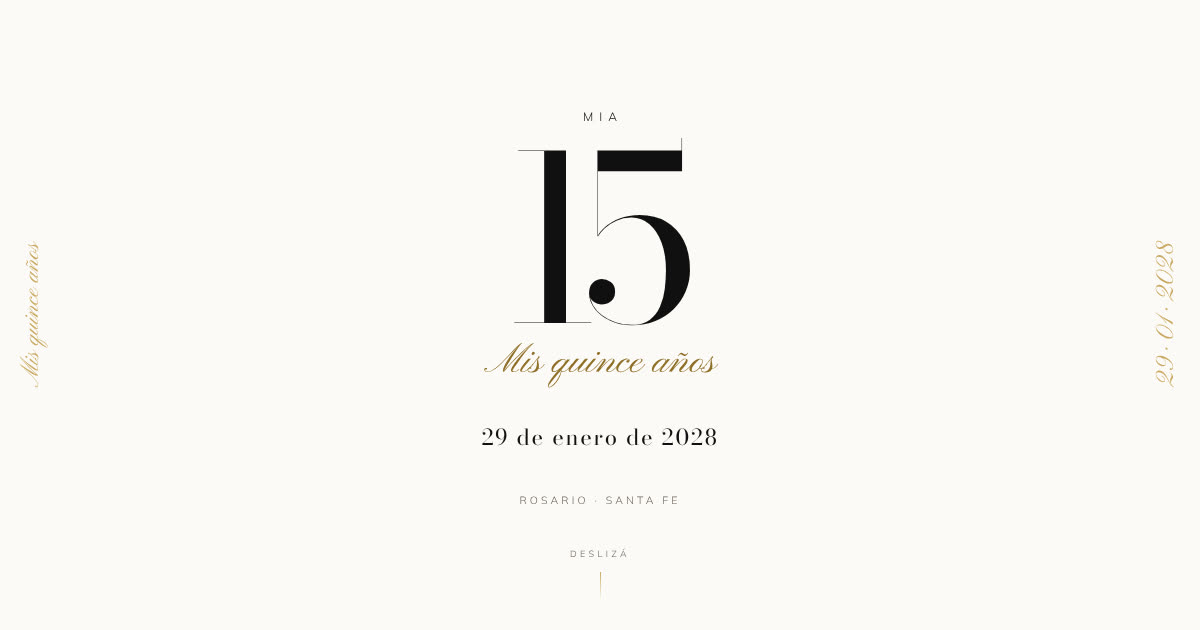
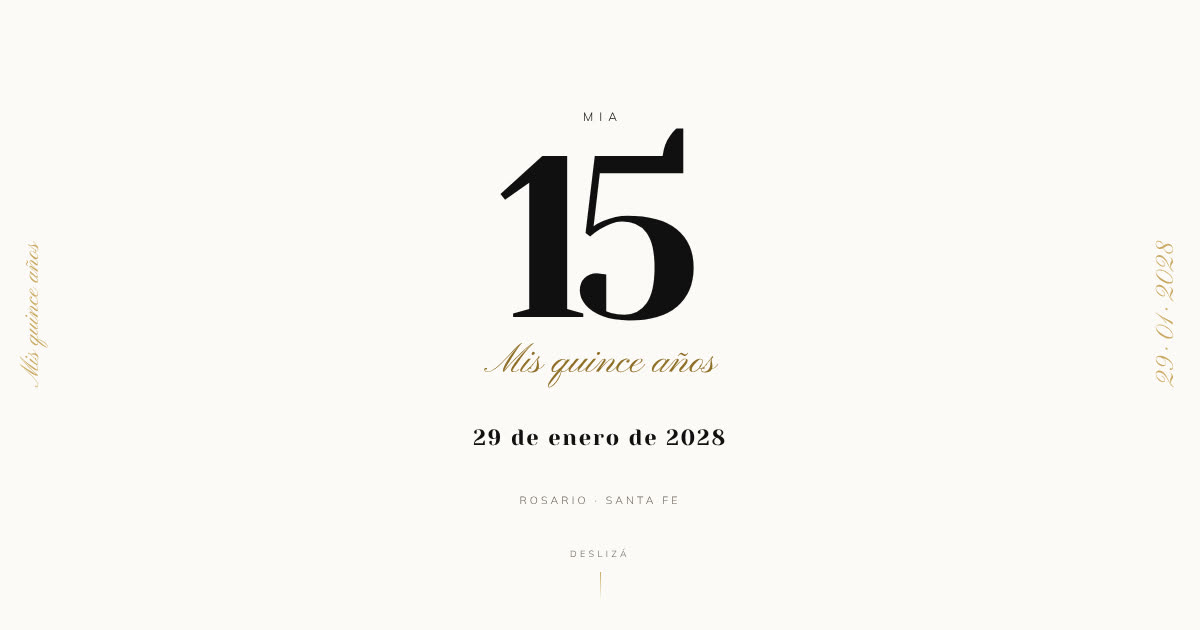
mia15 v5: bandas blancas y negras con el borde rasgado, y Yeseva One
Segunda referencia que mandó el dueño (Miron & Diana): la página
alterna bandas blancas y negras y entre una y otra el borde está
RASGADO, como papel cortado a mano. Eso usa el blanco y el negro de
Mia como ESTRUCTURA y no como detalle, y le da el ritmo que le
faltaba: cada sección entra como una hoja nueva.

Se combina con lo de la referencia anterior en vez de reemplazarlo:
las cifras gigantes y la línea vertical se quedan, y los títulos
pasan a ser capitular espaciada grande con la cursiva de bajada
abajo — que es tener las dos cosas que le gustaron, juntas.

Tipografía: Yeseva One. Se eligió mostrándola, no describiéndola:
tres veces la cambié por descripción y tres veces no era, así que
monté la misma portada con siete y mandé las siete capturas.

Los bordes rasgados se ponen SOLOS y solo donde cambia el color.
Escritos a mano, el día que el regalo se esconda —se esconde si no
hay alias— quedarían dos bandas del mismo color pegadas con un
rasgado en el medio. Los caminos SVG se generan con la fecha de la
fiesta de semilla, así salen iguales en cada armado.

Dos que no tiraban ningún error:

- Los días en tres dígitos no entraban en su casilla y pintaban
  ENCIMA del dos puntos: "469" y "04" se leían como 46904. Una
  cuenta regresiva ilegible. Y no lo agarraba nada — las cajas NO se
  superponen, lo comprobé con el bug puesto y daba verde; lo que se
  desborda es la tinta. Ahora `invitacion_mirar` lo mide con
[…]

Changed region(s): [[0.4008, 0.2111, 0.5858, 0.5127], [0.4008, 0.6635, 0.6167, 0.7238]]

diff --git a/mia15/index.html b/mia15/index.html
@@ -12,8 +12,8 @@
 <meta property="og:image" content="og.jpg">
 <link rel="preconnect" href="https://fonts.googleapis.com">
 <link rel="preconnect" href="https://fonts.gstatic.com" crossorigin>
-<link href="https://fonts.googleapis.com/css2?family=Bodoni+Moda:opsz,wght@6..96,400;6..96,500&family=Pinyon+Script&family=Mulish:wght@300;400;500&display=swap" rel="stylesheet">
-<noscript><link href="https://fonts.googleapis.com/css2?family=Bodoni+Moda:opsz,wght@6..96,400;6..96,500&family=Pinyon+Script&family=Mulish:wght@300;400;500&display=swap" rel="stylesheet"></noscript>
+<link href="https://fonts.googleapis.com/css2?family=Yeseva+One&family=Pinyon+Script&family=Mulish:wght@300;400;500&display=swap" rel="stylesheet">
+<noscript><link href="https://fonts.googleapis.com/css2?family=Yeseva+One&family=Pinyon+Script&family=Mulish:wght@300;400;500&display=swap" rel="stylesheet"></noscript>
 <style>
 /* ══════════════════════════════════════════════════════════════
    MIA · quince años — 29 de enero de 2028
@@ -57,7 +57,15 @@
   --gris:#6B635A;         /* 5,7:1 sobre el papel */
   --oro:#8F6E26;          /* 4,6:1 sobre el papel — el oro que se LEE */
   --oro-luz:#C9A961;      /* filetes y dibujos, nunca una letra */
-  --display:'Bodoni Moda',Didot,Georgia,serif;
+  /* La tinta de las bandas NEGRAS. Van en :root y no sueltas por
+     ahí: una var que no existe NO da error — la declaración se
+     descarta y el texto hereda lo de arriba. Acá eso fue negro
+     sobre negro, 1,00:1, en trece textos, y en el navegador se ve
+     una banda negra vacía que parece un error de carga. */
+  --crema:#F6F2EA;        /* 17:1 sobre el negro */
+  --crema2:#B9B0A2;       /* 8,8:1 sobre el negro */
+  --oro-neg:#D8B877;      /* 10:1 sobre el negro */
+  --display:'Yeseva One',Georgia,serif;
   --mano:'Pinyon Script',cursive;
   --texto:'Mulish',system-ui,-apple-system,'Segoe UI',sans-serif;
   --e:cubic-bezier(.22,.75,.3,1);
@@ -85,15 +93,58 @@ a{color:inherit}
 h1,h2,h3{margin:0;font-weight:400;line-height:1.1}
 p{margin:0 0 1em}
 
-/* El título manuscrito: lo que convierte cada sección en un momento. */
+/* EL TÍTULO: capitular espaciada, grande, como la referencia. Y
+   abajo la misma idea dicha en cursiva, chiquita — las dos cosas
+   que tienen las dos referencias que eligió, juntas. */
+.tit{
+  font-family:var(--display);font-weight:400;
+  font-size:clamp(23px,6.4vw,32px);letter-spacing:.16em;
+  text-transform:uppercase;line-height:1.2;color:var(--tinta);
+  margin:0;text-indent:.16em;
+}
 .mano{
   font-family:var(--mano);font-weight:400;
-  font-size:clamp(38px,11vw,56px);line-height:1.05;
-  color:var(--oro);margin:0 0 6px;
+  font-size:clamp(23px,6.4vw,30px);line-height:1.2;
+  color:var(--oro);margin:6px 0 0;
 }
-/* El renglón chiquito de arriba, en versalitas separadas. */
-.ante{font-size:10px;letter-spacing:.42em;text-transform:uppercase;color:var(--gris);margin:0 0 20px}
+.ante{font-size:10px;letter-spacing:.42em;text-transform:uppercase;color:var(--gris);margin:0 0 16px}
 .cuerpo{color:var(--gris);font-size:15.5px;max-width:34ch;margin-left:auto;margin-right:auto}
+
+/* ══════════ LAS BANDAS ══════════
+   De la segunda referencia que eligió el dueño: la página alterna
+   bandas blancas y negras, y entre una y otra el borde está
+   RASGADO, como papel cortado a mano. Eso usa el blanco y el negro
+   de Mia como ESTRUCTURA y no como detalle, y es lo que le da
+   ritmo: cada sección entra como una hoja nueva.
+
+   Cada banda oscura trae su propia tinta, toda. Heredar el gris del
+   papel sobre un fondo negro da 1,4:1 — el texto deja de estar, y
+   en el monitor no se nota porque uno mira la banda de arriba. */
+.oscura{background:var(--tinta);color:var(--crema)}
+.oscura h1,.oscura h2,.oscura h3{color:var(--crema)}
+.oscura p,.oscura .cuerpo{color:var(--crema2)}
+.oscura .ante{color:var(--crema2)}
+.oscura .mano{color:var(--oro-neg)}
+.oscura .filete i{background:rgba(216,184,119,.5)}
+.oscura .filete b{background:var(--oro-neg)}
+.oscura .salon{color:var(--crema)}
+.oscura .calle{color:var(--crema2)}
+.oscura .hora{color:var(--oro-neg)}
+.oscura .alias-big{color:var(--crema)}
+.oscura .vert{color:rgba(216,184,119,.6)}
+.oscura .cierre-n{color:var(--crema)}
+.oscura .firma{color:var(--crema2)}
+.oscura .firma a{color:var(--oro-neg)}
+.oscura .btn{border-color:var(--crema);background-color:var(--crema);color:var(--tinta)}
+@media (hover:hover){ .oscura .btn:hover{background-color:transparent;color:var(--crema)} }
+
+/* El borde rasgado. Va arriba de la sección y pintado del color de
+   la que viene ARRIBA, así parece que esa hoja se rasgó encima de
+   esta. Es decoración pura: no ataja el dedo y está escondida del
+   lector de pantalla. */
+.rasgo{position:absolute;top:-1px;left:0;width:100%;height:30px;display:block;
+  pointer-events:none;z-index:3}
+@media (min-width:700px){ .rasgo{height:42px} }
 
 /* ── el armazón ── */
 .seccion{padding:92px 26px;position:relative;overflow:hidden}
@@ -204,12 +255,21 @@ p{margin:0 0 1em}
 /* ══════════ la cuenta regresiva ══════════
    En una sola línea, cifras finas con dos puntos, como la
    referencia. Las etiquetas van abajo y chiquitas. */
-.reloj{display:flex;align-items:flex-start;justify-content:center;gap:clamp(6px,2.4vw,14px);margin:14px 0 0}
-.reloj div{text-align:center;min-width:clamp(44px,15vw,74px)}
+/* Los dos puntos van con flex:none y las cifras sin min-width.
+   Al revés —que es como estaba— los números no se podían encoger y
+   el que se encogía era el `:`, hasta desaparecer: los días y las
+   horas quedaban pegados y "469" y "04" se leían como 46904. Una
+   cuenta regresiva ilegible, y sin un solo error. */
+.reloj{display:flex;align-items:flex-start;justify-content:center;gap:clamp(4px,1.8vw,12px);margin:18px 0 0}
+.reloj div{text-align:center;min-width:0;flex:0 1 auto}
 .reloj b{display:block;font-family:var(--display);font-weight:400;
-  font-size:clamp(38px,13vw,62px);line-height:1;color:var(--tinta);font-variant-numeric:tabular-nums}
-.reloj span{display:block;margin-top:10px;font-size:8.5px;letter-spacing:.2em;text-transform:uppercase;color:var(--gris)}
-.reloj .dp{font-family:var(--display);font-size:clamp(28px,9vw,44px);color:var(--oro-luz);line-height:1.1;align-self:flex-start}
+  font-size:clamp(27px,8.6vw,50px);line-height:1;color:var(--tinta);
+  font-variant-numeric:tabular-nums;white-space:nowrap}
+.reloj span{display:block;margin-top:12px;font-size:8px;letter-spacing:.18em;text-transform:uppercase;color:var(--gris)}
+.reloj .dp{flex:none;font-family:var(--display);font-size:clamp(20px,6vw,34px);
+  color:var(--oro-luz);line-height:1.35;align-self:flex-start}
+.oscura .reloj b{color:var(--crema)}
+.oscura .reloj span{color:var(--crema2)}
 
 /* ── el calendario ── */
 .calen{margin:52px auto 0;max-width:320px}
@@ -243,7 +303,7 @@ p{margin:0 0 1em}
 .btn:active{transform:scale(.98)}
 
 /* ══════════ el regalo ══════════ */
-#regalo{background:var(--papel2)}
+/* sin fondo propio: el color se lo da la banda (.oscura) */
 .alias-big{font-family:var(--display);font-size:clamp(20px,5.4vw,26px);color:var(--tinta);margin:18px 0 2px;letter-spacing:.02em}
 
 /* ══════════ la confirmación ══════════ */
@@ -342,10 +402,10 @@ p{margin:0 0 1em}
 </header>
 
 <!-- ══════════ te invito ══════════ -->
-<section class="seccion centro" id="frase">
+<section class="seccion centro oscura" id="frase">
   <div class="caja">
-    <p class="ante ap">29 de enero de 2028</p>
-    <h2 class="mano ap">Te invito</h2>
+    <h2 class="tit ap">Te invito</h2>
+    <p class="mano ap">a mis quince</p>
     <p class="cuerpo ap">a compartir conmigo una noche que vengo esperando
     hace mucho. Me encantaría que estés.</p>
     <div class="filete ap"><i></i><b></b><i></i></div>
@@ -361,8 +421,8 @@ p{margin:0 0 1em}
 <section class="seccion centro" id="cuenta">
   <span class="vert" aria-hidden="true">Ya falta poco</span>
   <div class="caja">
-    <p class="ante ap">Falta</p>
-    <h2 class="mano ap">Cuánto falta</h2>
+    <h2 class="tit ap">Cuánto falta</h2>
+    <p class="mano ap">ya falta poco</p>
     <div class="reloj ap">
       <div><b id="cD">00</b><span>Días</span></div><span class="dp">:</span>
       <div><b id="cH">00</b><span>Horas</span></div><span class="dp">:</span>
@@ -374,11 +434,11 @@ p{margin:0 0 1em}
 </section>
 
 <!-- ══════════ dónde ══════════ -->
-<section class="seccion centro" id="donde">
+<section class="seccion centro oscura" id="donde">
   <span class="vert der" aria-hidden="true">Te espero</span>
   <div class="caja">
-    <p class="ante ap">Dónde</p>
-    <h2 class="mano ap">El lugar</h2>
+    <h2 class="tit ap">El lugar</h2>
+    <p class="mano ap">dónde nos vemos</p>
     <p class="salon ap" id="lugar">La Mansión del Rey</p>
     <p class="calle ap" id="calle">Vera Mujica 68 · Rosario</p>
     <p class="hora ap" id="hora">Sábado 29 de enero</p>
@@ -389,18 +449,18 @@ p{margin:0 0 1em}
 <!-- ══════════ dress code ══════════ -->
 <section class="seccion centro" id="dress">
   <div class="caja">
-    <p class="ante ap">Dress code</p>
-    <h2 class="mano ap">Dress code</h2>
+    <h2 class="tit ap">Dress code</h2>
+    <p class="mano ap">cómo venir</p>
     <p class="cuerpo ap" style="font-family:var(--display);font-size:clamp(19px,5.2vw,24px);color:var(--tinta);margin-bottom:14px">Elegante o formal</p>
     <p class="cuerpo ap" id="dressTexto"></p>
   </div>
 </section>
 
 <!-- ══════════ el regalo · solo si hay alias ══════════ -->
-<section class="seccion centro" id="regalo" hidden>
+<section class="seccion centro oscura" id="regalo" hidden>
   <div class="caja">
-    <p class="ante">Regalo</p>
-    <h2 class="mano">Tu regalo</h2>
+    <h2 class="tit">Regalo</h2>
+    <p class="mano">si querés</p>
     <p class="cuerpo" id="regaloTexto"></p>
     <p class="alias-big" id="alias"></p>
     <p style="font-size:13px;color:var(--gris);margin:0" id="titular"></p>
@@ -411,8 +471,8 @@ p{margin:0 0 1em}
 <!-- ══════════ la confirmación ══════════ -->
 <section class="seccion" id="confirmar">
   <div class="caja">
-    <p class="ante centro ap">Confirmación</p>
-    <h2 class="mano centro ap">¿Venís?</h2>
+    <h2 class="tit centro ap">¿Venís?</h2>
+    <p class="mano centro ap">avisame</p>
     <p class="cuerpo centro ap" id="hasta"></p>
 
     <form id="rsvp" class="ap" novalidate style="margin-top:26px">
@@ -466,7 +526,7 @@ p{margin:0 0 1em}
 </section>
 
 <!-- ══════════ el cierre ══════════ -->
-<section class="seccion centro" id="cierre">
+<section class="seccion centro oscura" id="cierre">
   <div class="caja">
     <div class="filete ap"><i></i><b></b><i></i></div>
     <p class="cierre-n ap">Mia</p>
@@ -601,6 +661,37 @@ document.documentElement.classList.add('js');
     $('#hora').textContent = nom.charAt(0).toUpperCase() + nom.slice(1) +
       ' ' + (+m[3]) + ' de ' + MESES[+m[2]-1] +
       (CONFIG.mostrarHora ? ' · ' + m[4] + ':' + m[5] : '');
+  }
+})();
+
+/* ══════════ los bordes rasgados ══════════
+   Se ponen SOLOS, y solo donde el color cambia. Escritos a mano en
+   el HTML, el día que una sección se esconda —el regalo se esconde
+   si no hay alias— quedarían dos bandas del mismo color pegadas con
+   un rasgado en el medio, que es justo lo que no tiene que pasar. */
+(function(){
+  const BORDES = [
+    'M0,0 L0.0,28.6 L26.1,35.3 L52.2,33.7 L78.3,27.8 L104.3,38.1 L130.4,24.6 L156.5,16.3 L182.6,22.0 L208.7,20.2 L234.8,17.5 L260.9,12.7 L287.0,21.3 L313.0,26.9 L339.1,30.2 L365.2,33.0 L391.3,22.1 L417.4,27.0 L443.5,30.3 L469.6,17.5 L495.7,11.7 L521.7,19.6 L547.8,14.3 L573.9,10.3 L600.0,29.7 L626.1,30.0 L652.2,27.3 L678.3,25.7 L704.3,37.3 L730.4,28.9 L756.5,14.7 L782.6,19.5 L808.7,14.0 L834.8,12.3 L860.9,21.4 L887.0,24.6 L913.0,20.2 L939.1,28.6 L965.2,34.5 L991.3,24.6 L1017.4,26.8 L1043.5,23.7 L1069.6,21.3 L1095.7,13.6 L1121.7,15.5 L1147.8,23.0 L1173.9,19.0 L1200.0,18.1 L1200,0 Z',
+    'M0,0 L0.0,34.8 L26.1,33.6 L52.2,19.7 L78.3,35.6 L104.3,30.5 L130.4,22.8 L156.5,17.5 L182.6,17.2 L208.7,11.2 L234.8,23.4 L260.9,24.4 L287.0,20.2 L313.0,27.4 L339.1,40.3 L365.2,35.8 L391.3,22.2 L417.4,25.3 L443.5,25.3 L469.6,11.4 L495.7,13.0 L521.7,26.6 L547.8,24.0 L573.9,28.7 L600.0,26.7 L626.1,30.3 L652.2,18.5 L678.3,24.1 L704.3,22.6 L730.4,11.0 L756.5,23.7 L782.6,13.7 L808.7,18.8 L834.8,9.9 L860.9,33.9 L887.0,21.4 L913.0,30.5 L939.1,39.3 L965.2,28.8 L991.3,16.0 L1017.4,27.3 L1043.5,14.3 L1069.6,13.4 L1095.7,21.4 L1121.7,28.2 L1147.8,17.2 L1173.9,18.0 L1200.0,36.6 L1200,0 Z',
+    'M0,0 L0.0,29.4 L26.1,29.2 L52.2,26.6 L78.3,26.1 L104.3,26.8 L130.4,25.9 L156.5,17.9 L182.6,25.4 L208.7,7.9 L234.8,7.0 L260.9,18.7 L287.0,18.9 L313.0,21.7 L339.1,25.5 L365.2,27.5 L391.3,29.3 L417.4,24.5 L443.5,27.2 L469.6,13.3 L495.7,13.1 L521.7,13.9 L547.8,23.8 L573.9,21.3 L600.0,31.0 L626.1,36.1 L652.2,19.4 L678.3,22.5 L704.3,29.9 L730.4,12.4 L756.5,13.3 L782.6,14.5 L808.7,9.9 L834.8,21.2 L860.9,21.7 L887.0,29.6 L913.0,23.3 L939.1,37.3 L965.2,36.8 L991.3,27.8 L1017.4,28.0 L1043.5,30.3 L1069.6,14.9 L1095.7,16.8 L1121.7,17.1 L1147.8,17.6 L1173.9,25.2 L1200.0,30.3 L1200,0 Z'
+  ];
+  const secs = $$('section.seccion, header#portada').filter(n => !n.hidden);
+  let i = 0;
+  for (let k = 1; k < secs.length; k++){
+    const antes = secs[k-1].classList.contains('oscura');
+    const esta  = secs[k].classList.contains('oscura');
+    if (antes === esta) continue;           /* mismo color: no hay nada que rasgar */
+    const color = antes ? 'var(--tinta)' : 'var(--papel)';
+    const svg = document.createElementNS('http://www.w3.org/2000/svg','svg');
+    svg.setAttribute('class','rasgo');
+    svg.setAttribute('viewBox','0 0 1200 44');
+    svg.setAttribute('preserveAspectRatio','none');
+    svg.setAttribute('aria-hidden','true');
+    const path = document.createElementNS('http://www.w3.org/2000/svg','path');
+    path.setAttribute('d', BORDES[i++ % BORDES.length]);
+    path.setAttribute('fill', color);
+    svg.appendChild(path);
+    secs[k].insertBefore(svg, secs[k].firstChild);
   }
 })();
 

diff --git a/pruebas/invitacion_mirar.js b/pruebas/invitacion_mirar.js
@@ -172,6 +172,34 @@ const titulo = t => console.log('\n─── ' + t + ' ───');
     es(/^\d+$/.test(dias) && +dias > 0, 'y cuenta días de verdad (' + dias + ')');
   }
 
+  /* NINGÚN TEXTO SE SALE DE SU CAJA.
+     Pasó con la cuenta regresiva: los días en tres dígitos no
+     entraban en su casilla y las cifras pintaban ENCIMA del dos
+     puntos de al lado — "469" y "04" se leían como 46904.
+     Y no lo agarraba nada: las cajas no se superponen (eso lo
+     comprobé y daba verde con el bug puesto), nada se sale de la
+     pantalla, y el contraste de cada pieza es perfecto. Lo que se
+     desborda es la TINTA, no la caja, y eso se mide con
+     scrollWidth contra clientWidth. */
+  const derramados = await pag.evaluate(() => {
+    const malos = [];
+    for (const n of document.querySelectorAll('body *')){
+      const propio = [...n.childNodes].some(c => c.nodeType === 3 && c.textContent.trim());
+      if (!propio) continue;
+      const cs = getComputedStyle(n);
+      if (cs.display === 'none' || cs.visibility === 'hidden') continue;
+      if (cs.overflowX !== 'visible') continue;        /* recortar a propósito no es derramar */
+      if (cs.writingMode !== 'horizontal-tb') continue; /* el renglón vertical se mide al revés */
+      if (n.scrollWidth > n.clientWidth + 1)
+        malos.push('"' + n.textContent.trim().slice(0,14) + '" ' +
+                   n.scrollWidth + ' en ' + n.clientWidth);
+    }
+    return malos;
+  });
+  es(derramados.length === 0, derramados.length
+    ? 'texto que se sale de su caja: ' + derramados.slice(0,3).join(' · ')
+    : 'ningún texto se sale de su caja');
+
   const cal = await pag.locator('#calendario .elDia').count();
   if (await pag.locator('#calendario').count())
     es(cal === 1, 'el calendario marca un solo día (marcó ' + cal + ')');

diff --git a/CLAUDE.md b/CLAUDE.md
@@ -2405,6 +2405,101 @@ Cuatro cosas que no son adorno:
   ficha no se deriva del alto —no es un carrusel, se scrollea— así que va
   `width:100%;max-width:252px` con `auto-fit,minmax(230px,1fr)`.
 
+### `mia15/`: la primera invitación de un cliente de verdad
+
+29 de enero de 2028, La Mansión del Rey (Vera Mujica 68, Rosario).
+Lo que mandó la cumpleañera fue corto: **blanco, dorado y negro**,
+*"elegante o formal"*, que se marque si asisten y que tenga cuenta
+regresiva.
+
+**Se armó SIN publicar**, a pedido del dueño: vive en la rama de
+trabajo hasta que el cliente la apruebe. Cloudflare publica `main`,
+así que mientras no se mergee no existe en el sitio. Y el
+`CONFIG.endpoint` va vacío a propósito: la confirmación se ve y se
+completa entera y **dice con todas las letras que no se mandó a
+ningún lado**, así la tarjeta se revisa antes de que exista la
+planilla.
+
+**Hubo cuatro versiones y las tres primeras se tiraron.** Vale
+anotar por qué, porque es la misma lección tres veces:
+
+1. Negra con oro. *"Parece hecha a lo Click Eterno y no al pedido
+   de la quinceañera"*, y tenía razón: **esa es NUESTRA paleta** —la
+   del muro, la del rollo, la del sitio— y el blanco, que era uno de
+   los tres colores que ella pidió, había quedado de relleno.
+2. Papel marfil con tipografía negra. Correcta y sosa.
+3. Con la referencia que eligió él (BOMA): tipografía gigante como
+   gráfico, títulos manuscritos y una línea vertical al costado.
+4. Con la segunda referencia: **bandas que alternan blanco y negro
+   con el borde RASGADO**, que es lo que usa el blanco y el negro
+   como estructura y no como detalle.
+
+**El atajo para elegir tipografía: mostrarla, no describirla.** Tres
+veces se cambió la familia por descripción y tres veces no era. A la
+cuarta se montó la MISMA portada con siete tipografías y se le
+mandaron las siete capturas. Eligió mirando. Está en
+`pruebas/invitacion_mirar.js` la forma de hacerlo: interceptar el
+HTML y cambiarle el `<link>` y la variable, igual que hace
+`puertas.js` con `MUESTRA_MURO`.
+
+**Los bordes rasgados se ponen SOLOS**, y solo donde cambia el
+color. Escritos a mano en el HTML, el día que una sección se
+esconda —el regalo se esconde si no hay alias— quedarían dos bandas
+del mismo color pegadas con un rasgado en el medio. Los caminos SVG
+se generan con la fecha de la fiesta de semilla, así salen iguales
+en cada armado.
+
+**Lo que NO se escribió, y es lo importante:** la hora (la mandó sin
+hora, y una hora inventada manda a la gente a la hora equivocada —
+queda en `CONFIG.mostrarHora`, apagada) y el alias del regalo
+(`Ceci.montenegro.11` puede ser un alias para transferir o un
+usuario de Instagram, y publicar el equivocado manda la plata de los
+invitados a cualquier parte).
+
+**Es la primera invitación con el aviso del artículo 6** adentro del
+formulario. Acá hace falta de verdad: se piden nombres de invitados
+y comidas especiales, que es información de salud.
+
+### Medir una invitación: `pruebas/invitacion_mirar.js <carpeta>`
+
+Cuatro aparatos (320, 390, 430 y escritorio), con el sobre cerrado y
+abierto, que son dos pantallas distintas. Contraste, 44px, desborde,
+consola, CSP, y después las piezas: que la cuenta regresiva corra,
+que el calendario marque un solo día, que ningún enlace quede en
+`#`, que el sí/no no venga preseleccionado y que la confirmación no
+mienta. No está en `todo.sh` porque toma un argumento: se corre
+después de tocar una invitación.
+
+**Tres cosas que esa suite midió mal y cómo se arreglaron**, que son
+las tres la misma lección —*antes de creerle a una medición,
+rompela a propósito y mirá si falla*—:
+
+- **`scrollWidth` contra el ancho pedido no mide el desborde.** El
+  `overflow-x:hidden` del body —que está puesto a propósito— hace
+  que devuelva el ancho de la pantalla igual. Medido: con un bloque
+  de 900px metido adentro seguía diciendo "320 contra 320". Se miden
+  las CAJAS de verdad, y con el mismo bloque da 1 salido.
+- **Que dos cajas no se superpongan no es que el texto no se pise.**
+  La cuenta regresiva con los días en tres dígitos pintaba "469"
+  ENCIMA del dos puntos de al lado y se leía `46904`. Las cajas no
+  se tocaban —esa comprobación daba verde con el bug puesto—: lo que
+  se desbordaba era la TINTA. Se mide con `scrollWidth` contra
+  `clientWidth` de cada elemento con texto propio.
+- **El medidor de contraste tiene que saltear la decoración**, con
+  una definición estricta: `aria-hidden` Y `pointer-events:none`,
+  las dos juntas. Sin eso un "15" dibujado en contorno se mide como
+  texto a 1,00:1 —su color ES transparente— y la suite informa una
+  falla que no existe. Comprobado que no la deja ciega: 2098 textos
+  medidos en el producto con el filtro y sin él.
+
+**Y una de CSS que no da ningún error: una variable que no existe.**
+Al rehacer la paleta se fueron `--crema`, `--crema2` y `--oro-neg`
+de `:root`, pero las bandas negras las seguían usando. Una `var()`
+sin definir **no es un error**: la declaración se descarta y la
+propiedad hereda. Resultado, negro sobre negro en trece textos —
+1,00:1— y en el navegador una banda negra vacía que parece un error
+de carga. Lo agarró el medidor de contraste.
+
 ## Invitaciones alojadas en el repo
 
 Cada invitación es una carpeta con su `index.html` en la **raíz**:
